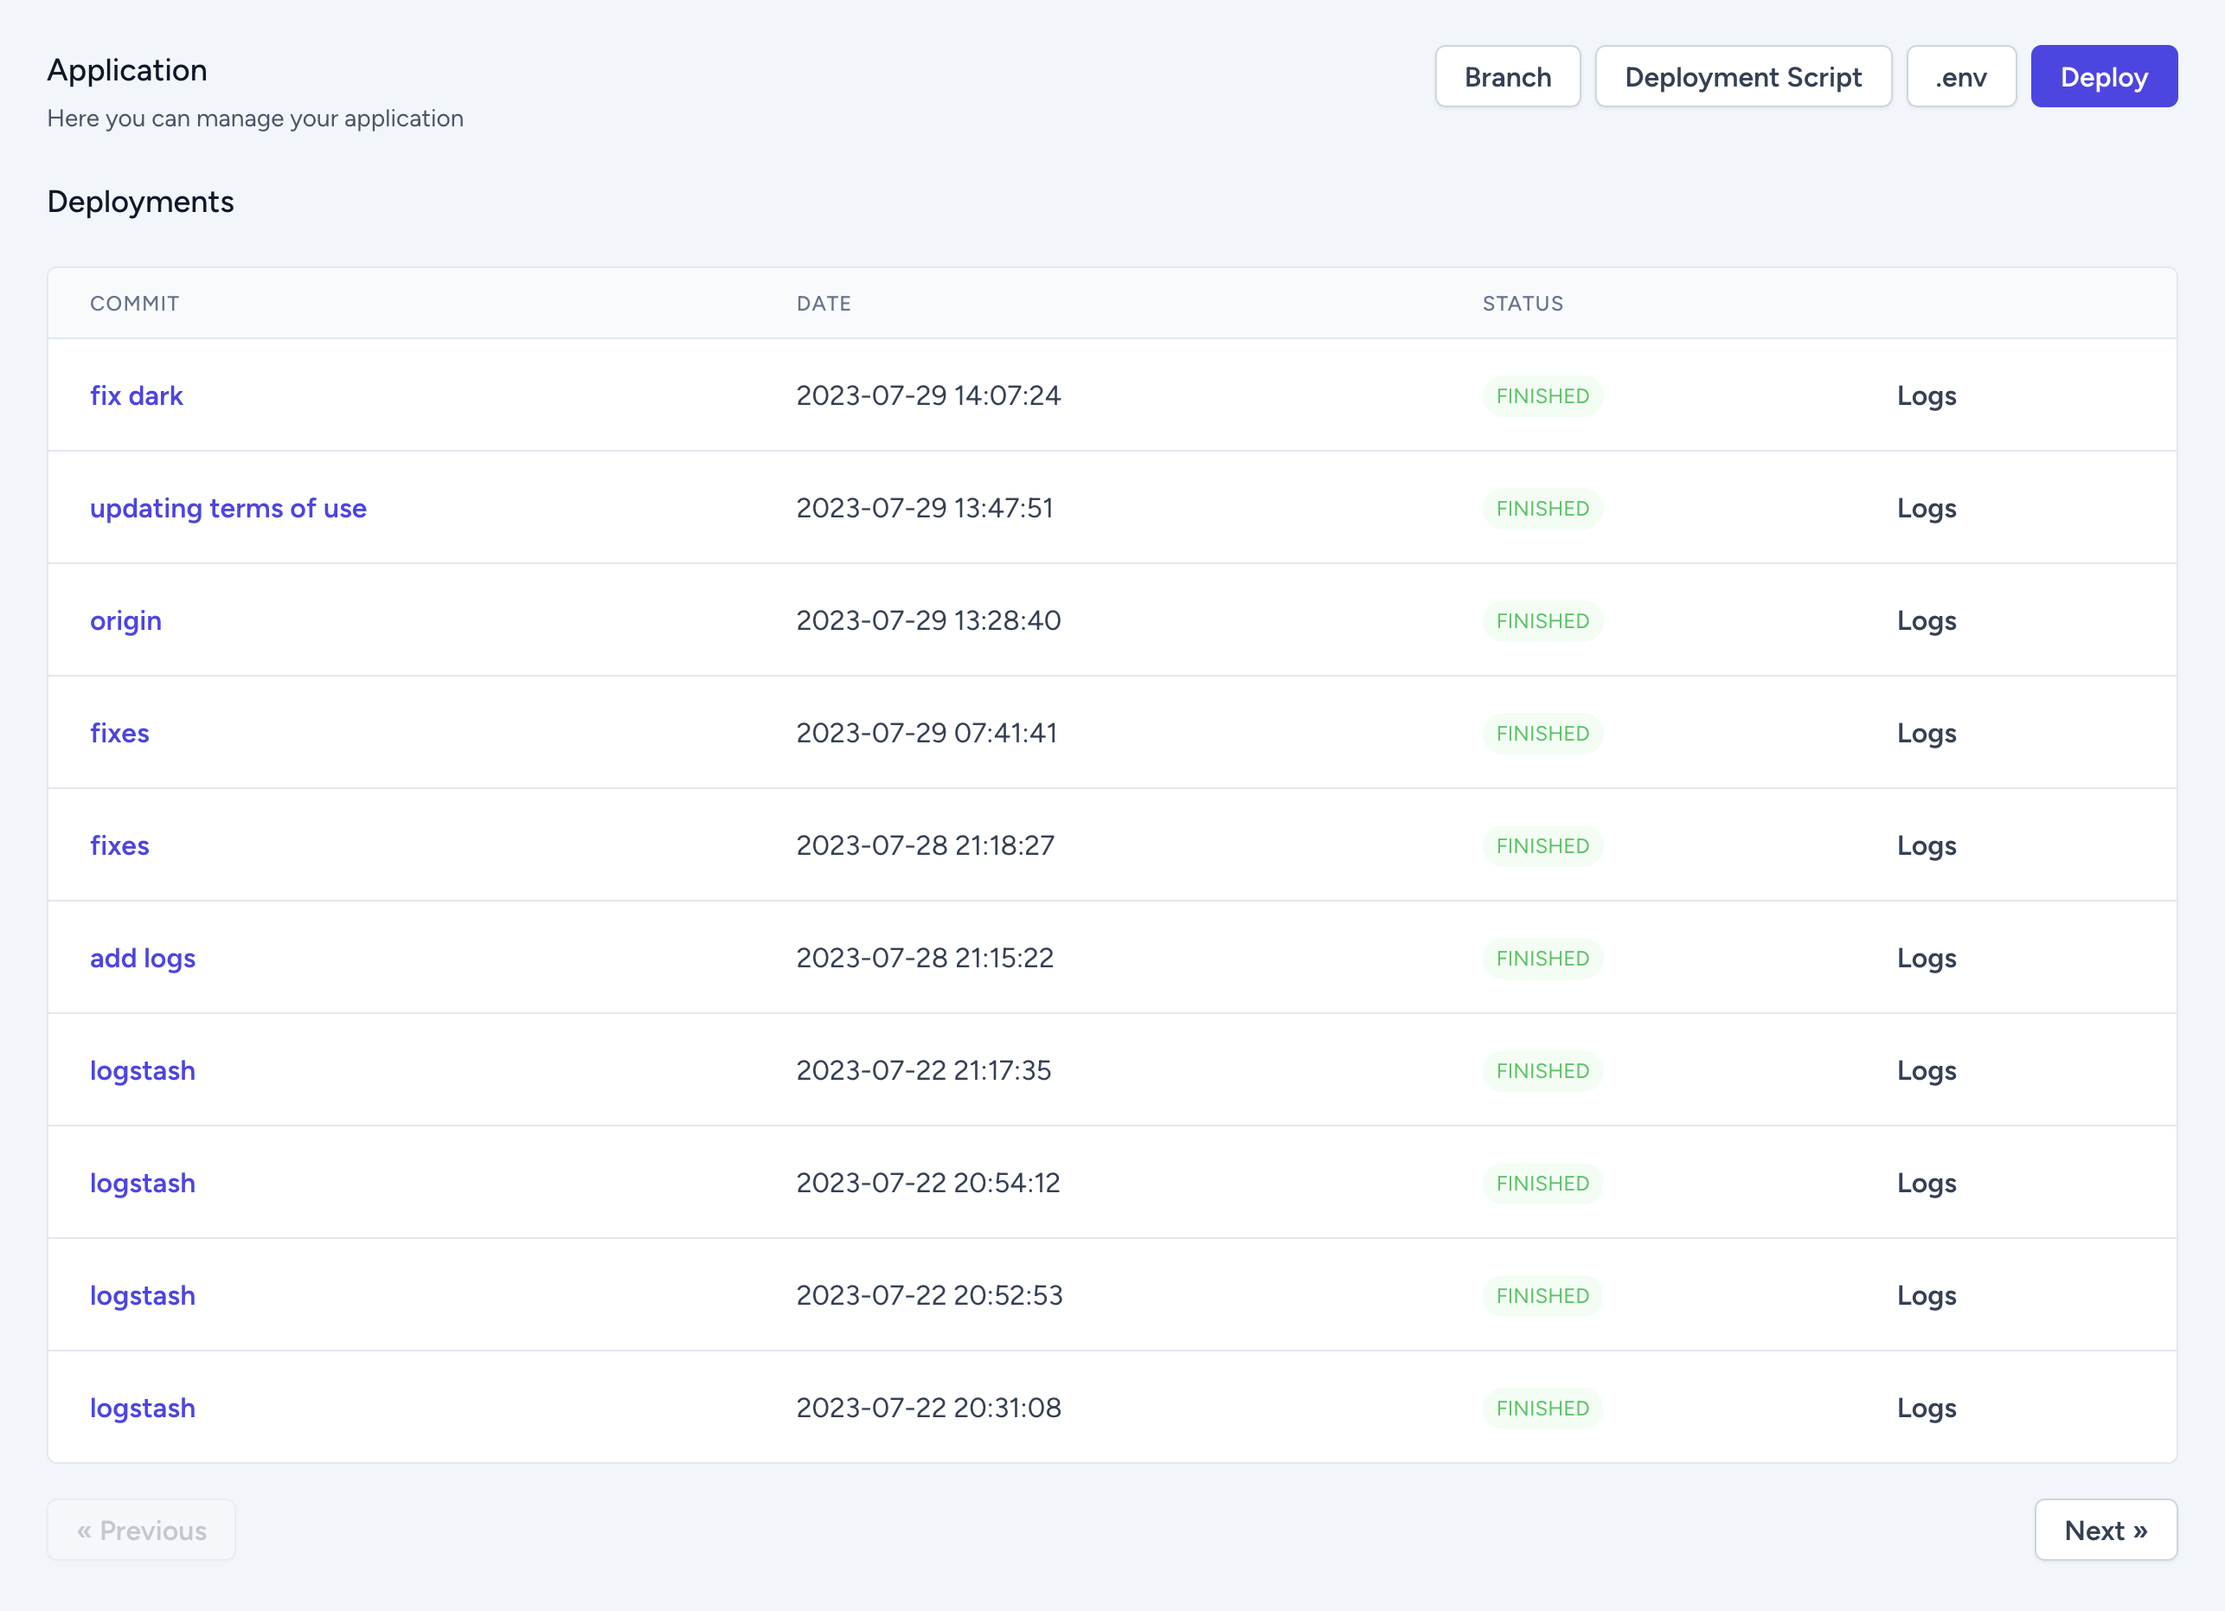
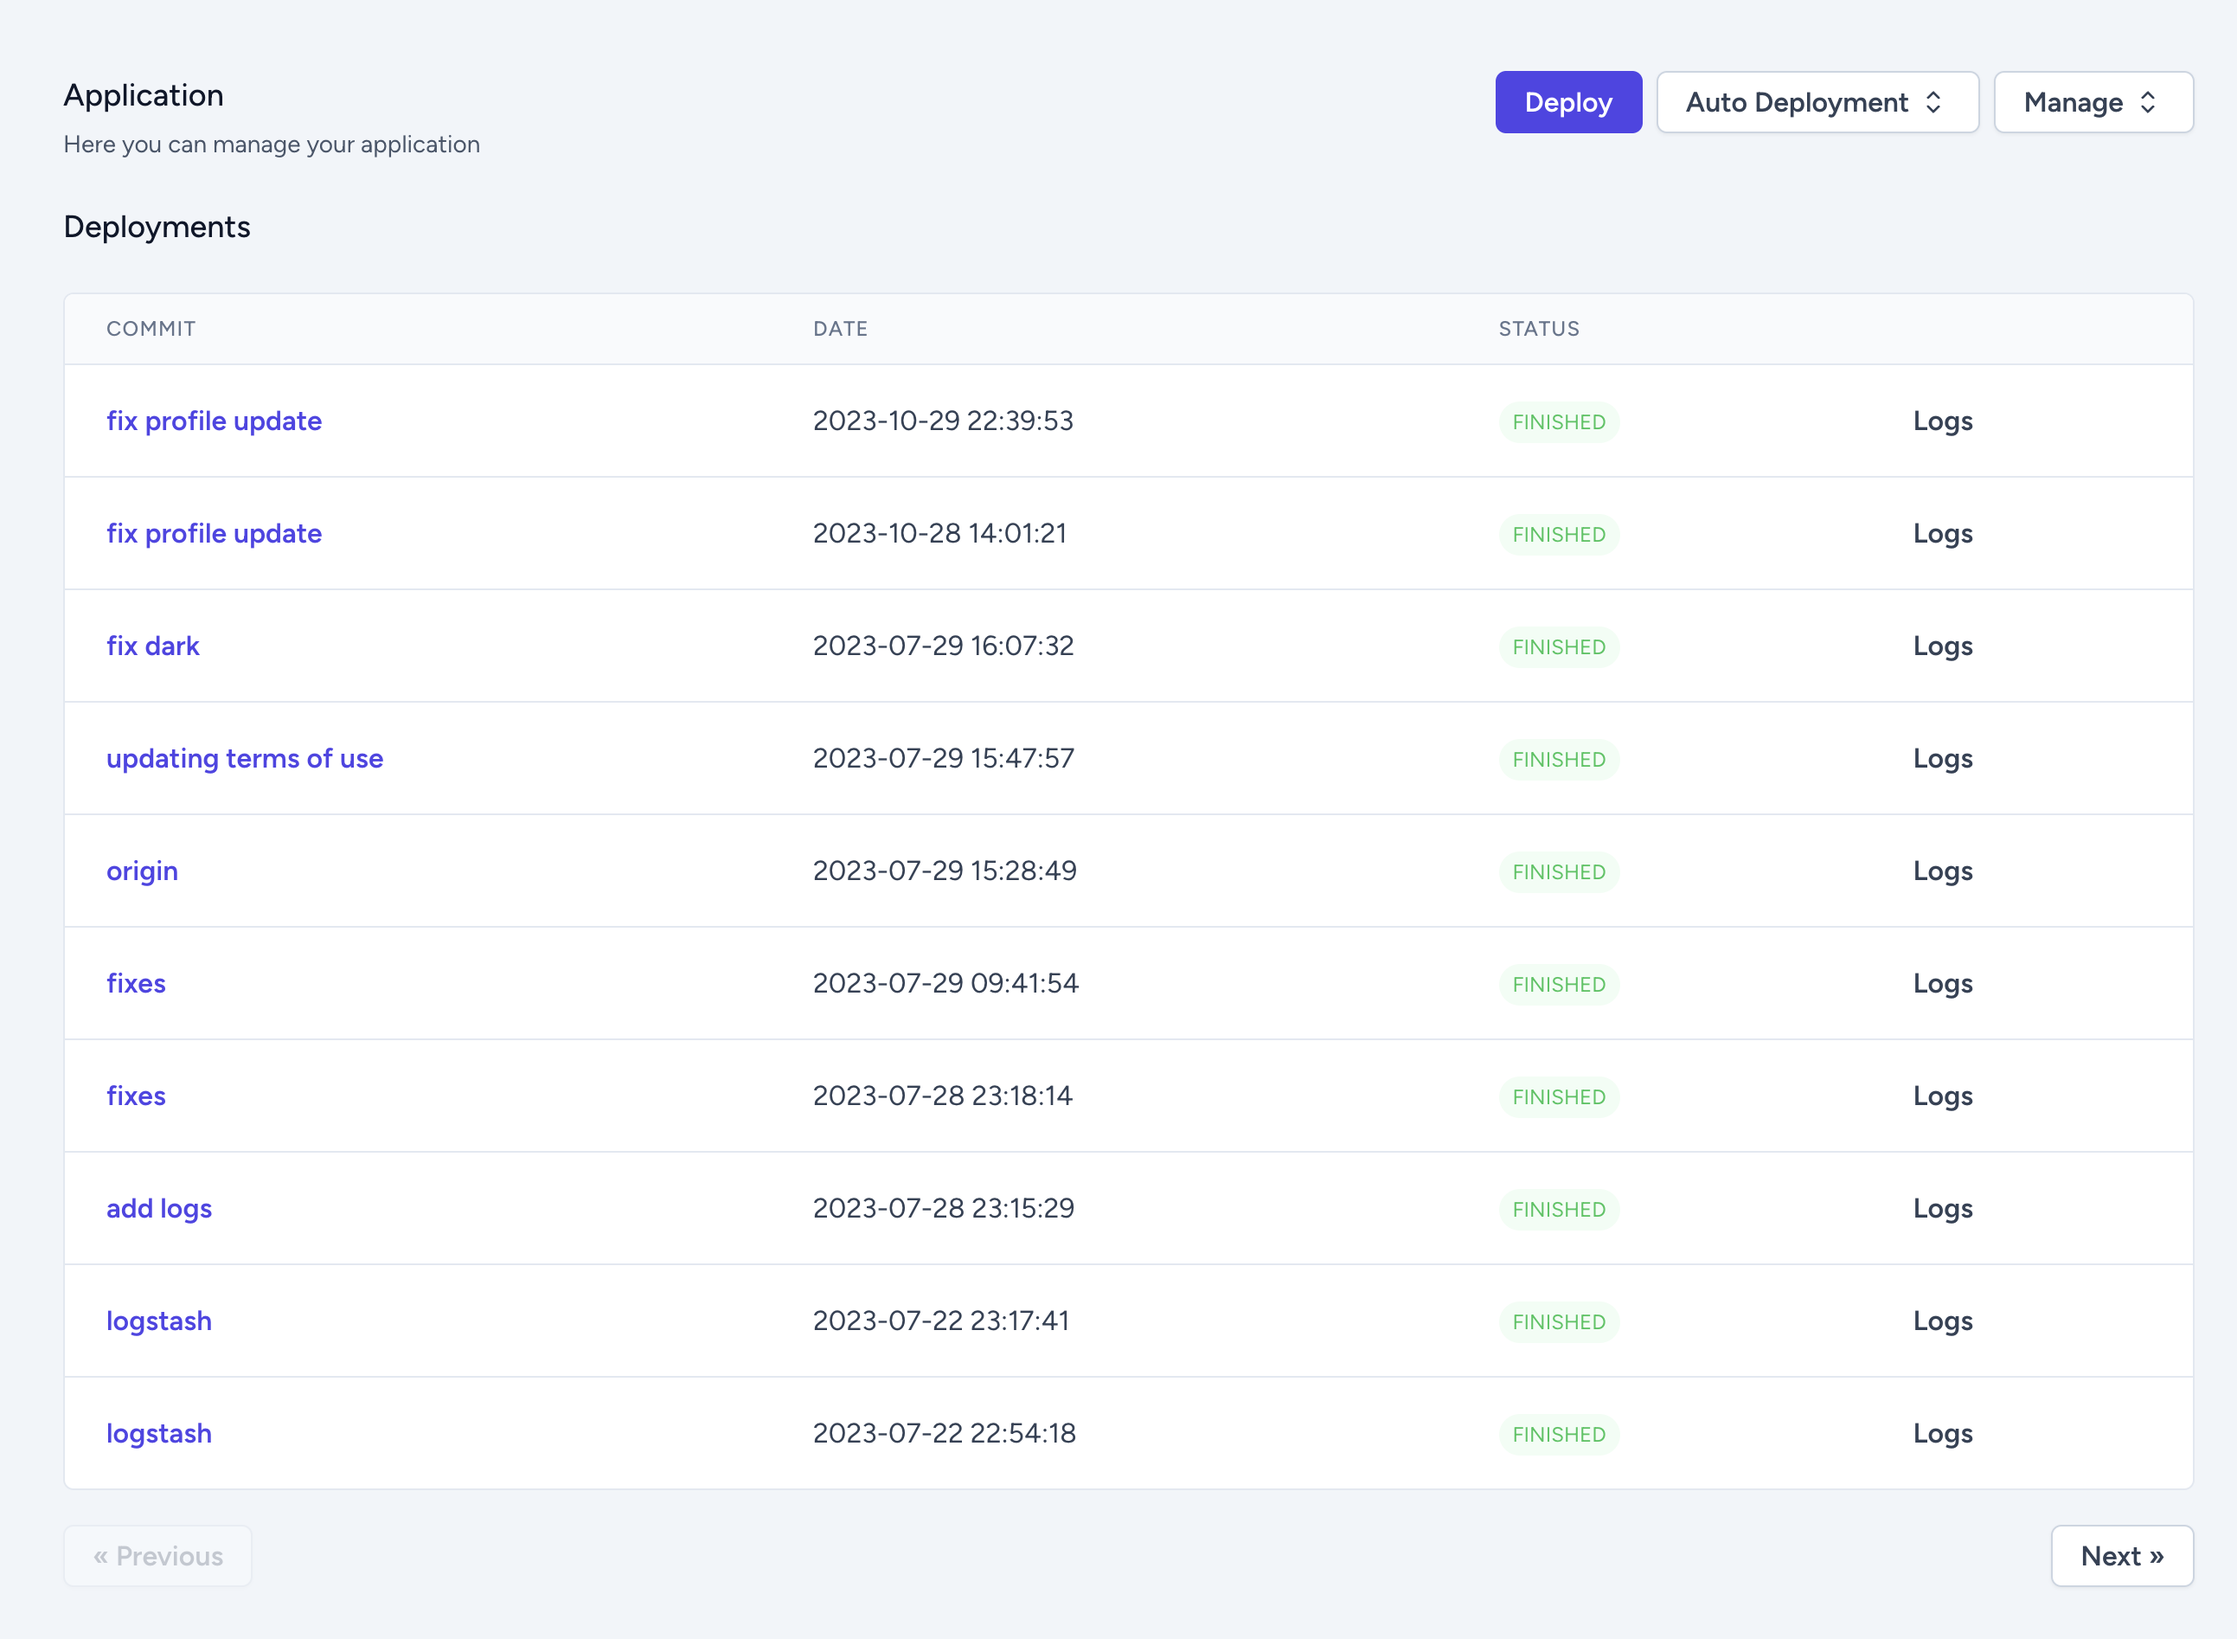
auto deployment

diff --git a/sites/application.md b/sites/application.md
@@ -26,4 +26,20 @@ Vito doesn't read the `.env` file in the beginning and you need to initiate the 
 
 ## Deploy
 
-This button appears when there is a deployment script! So you need to first write your deployment script and then this button will appear and you will be able to click on it an execute the deployment script on the server.
+This button appears when there is a deployment script! So you need to first write your deployment script and then this
+button will appear, and you will be able to click on it an execute the deployment script on the server.
+
+## Auto Deployment
+
+You can enable auto deployment for your application by setting up git hooks.
+
+Vito will handle the git hooks setup for you and you just need to click a button to enable it.
+
+::: warning
+You need to have a deployment script to enable auto deployment.
+:::
+
+::: warning
+Since source control providers need to send a request to your server, you need to have vito on a VPS. This feature
+cannot work when you use Vito locally.
+:::
